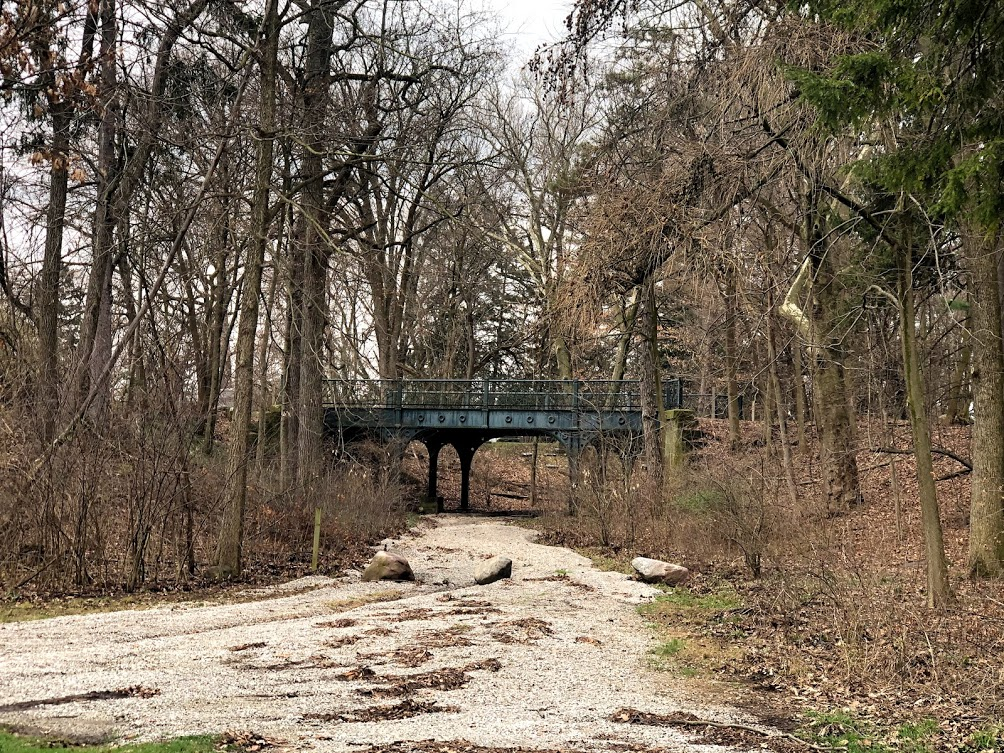
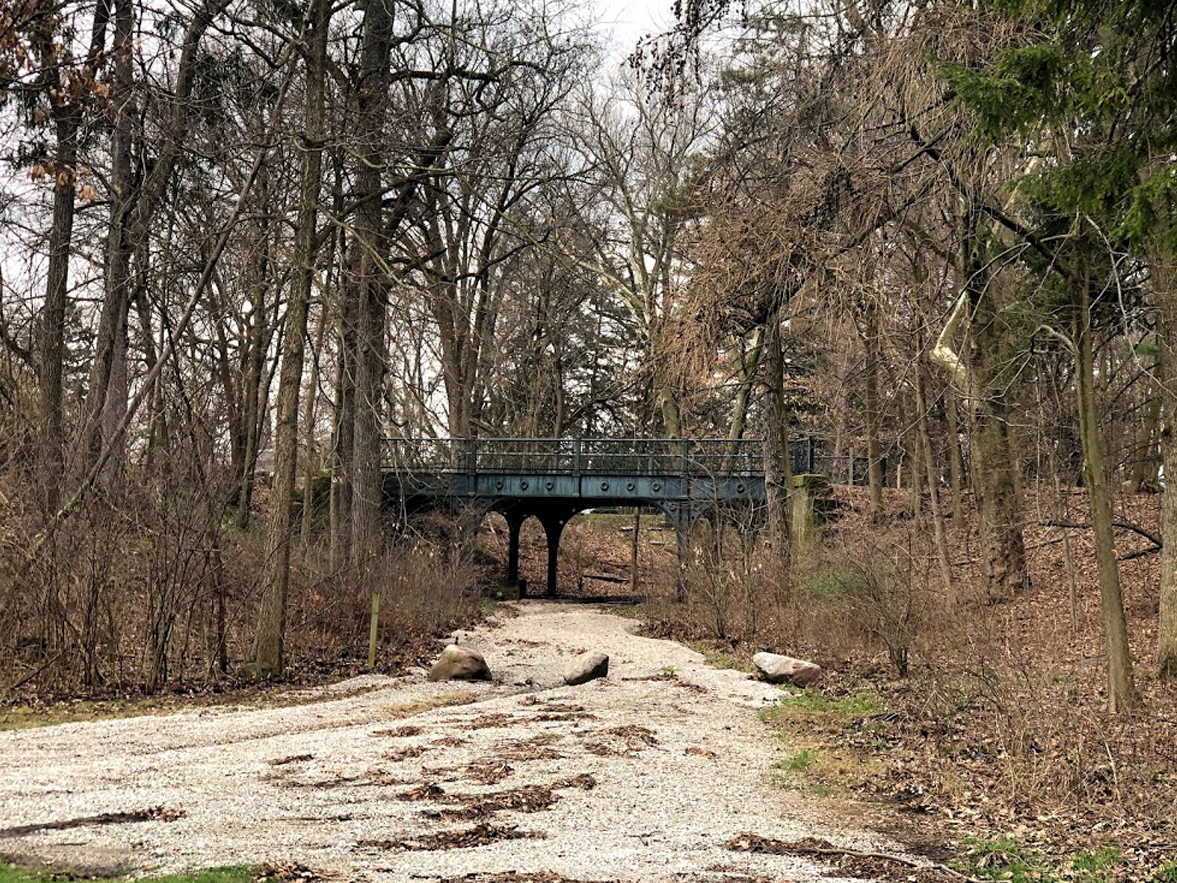
fixed flexbox

diff --git a/src/main/resources/static/styles/main.css b/src/main/resources/static/styles/main.css
@@ -18,6 +18,7 @@ html{
     max-width: 60rem;
     width: 90%;
     padding-top: 5rem;
+    height: 90vh;
 }
 
 .container a{
@@ -85,11 +86,12 @@ html{
 }
 
 .reviews{
-    display: grid;
-    grid-template-columns: 1fr 1fr 1fr;
-    /*display: flex;*/
-    /*justify-content: space-between;*/
-    /*margin: .5rem;*/
+    /*display: grid;*/
+    /*grid-template-columns: 1fr 1fr 1fr;*/
+    display: flex;
+    justify-content: space-between;
+    flex-direction: row;
+    margin: .5rem;
 }
 
 .reviews__figure{
@@ -125,7 +127,6 @@ html{
     align-items: center;
     justify-content: space-between;
     background-color: #666;
-    /*height: 90vh;*/
 }
 
 .fa{

diff --git a/src/main/resources/templates/reviewsTemplate.html b/src/main/resources/templates/reviewsTemplate.html
@@ -23,8 +23,8 @@
 <div class="container">
     <h2 class="reviews__title">A List of All Reviews</h2>
 
-    <section class="reviews" th:each="review: ${reviewsModel}">
-        <article class="reviews__column" >
+    <section class="reviews" >
+        <article class="reviews__column" th:each="review: ${reviewsModel}">
             <h3 class="reviews__column_title" ><a
                     th:href="@{/review(id=${review.id})}" th:text="${review.title}"></a>
                 </h3>

diff --git a/src/main/java/org/wecancodeit/reviews/ReviewRepository.java b/src/main/java/org/wecancodeit/reviews/ReviewRepository.java
@@ -17,7 +17,7 @@ public class ReviewRepository {
         Review musicReview = new Review(1L, "Album Review", "10.5.2020", "This is a review of an album",
                 "/images/sunset.jpg", "music", "Content for review would go here.");
         Review bookReview = new Review(2L, "Book Review", "10.5.2020", "This is a review of a book",
-                "/images/archer.jpg ", "book", "Content for review would go here.");
+                "/images/trail.jpg ", "book", "Content for review would go here.");
         Review artReview = new Review(3L, "Art Review", "10.5.2020", "This is a review of a work of art",
                 " /images/rainbow.jpg", "art", "Content for review would go here.");
 
